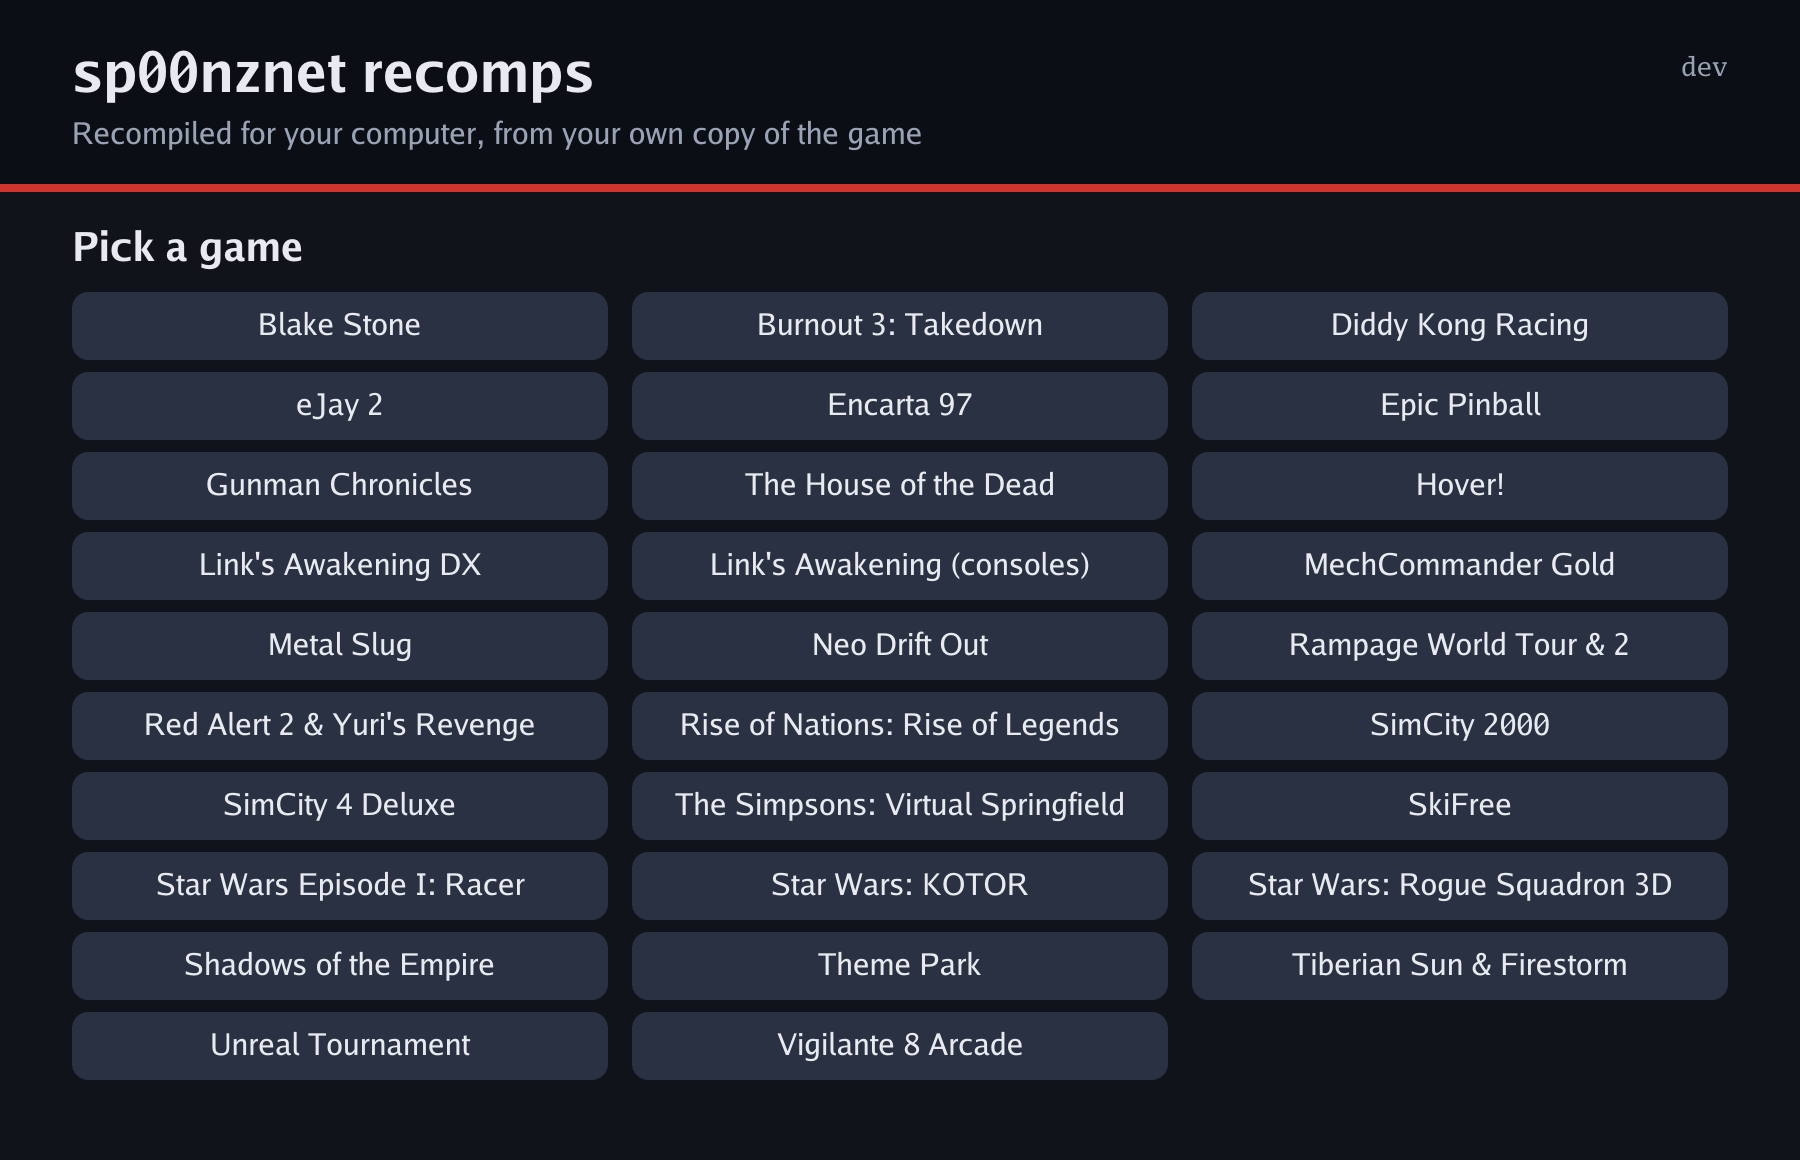
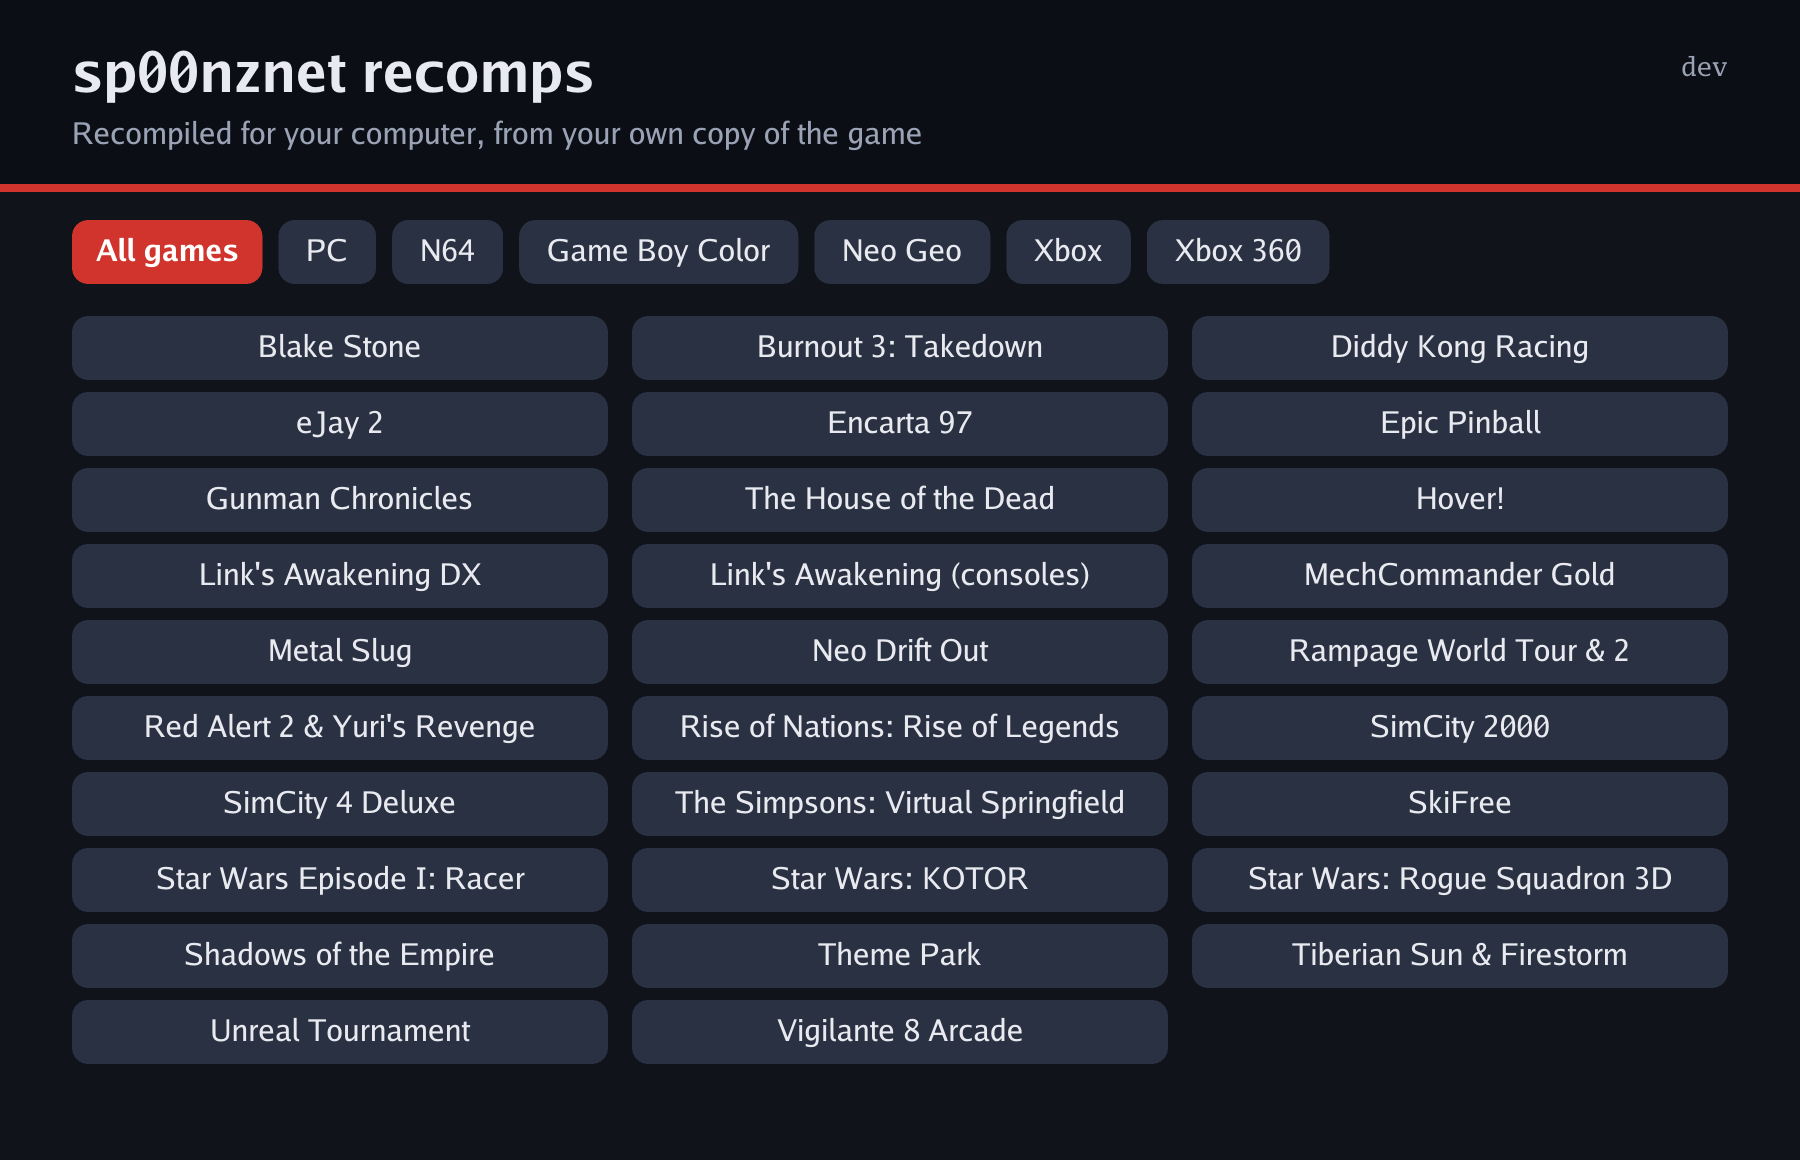
Game list: a tab per platform

Changed region(s): [[0.0311, 0.1862, 0.9644, 0.6517], [0.0311, 0.6828, 0.9644, 0.931]]

diff --git a/all.go b/all.go
@@ -14,6 +14,7 @@ import (
 	"os"
 	"path"
 	"path/filepath"
+	"sort"
 	"time"
 
 	"github.com/hajimehoshi/ebiten/v2"
@@ -26,8 +27,22 @@ var all = "false"
 
 // entry is one game in catalog.json: a repo whose releases carry launcher/launcher.json.
 type entry struct {
-	Repo  string `json:"repo"`
-	Title string `json:"title"`
+	Repo     string `json:"repo"`
+	Title    string `json:"title"`
+	Platform string `json:"platform"` // what it was made for: PC, N64, Xbox 360...
+}
+
+// platforms: the catalog's platforms, most games first, for the filter tabs.
+func platforms(games []entry) []string {
+	n := map[string]int{}
+	var ps []string
+	for _, e := range games {
+		if n[e.Platform]++; n[e.Platform] == 1 {
+			ps = append(ps, e.Platform)
+		}
+	}
+	sort.SliceStable(ps, func(i, j int) bool { return n[ps[i]] > n[ps[j]] })
+	return ps
 }
 
 func loadCatalog() ([]entry, error) {
@@ -98,12 +113,26 @@ func (a *App) toPicker() {
 	}
 }
 
-// drawPick: every game, three to a row; a dot on the ones already built.
+// drawPick: a tab per platform, then its games three to a row; a dot on the ones already built.
 func (a *App) drawPick(dst *ebiten.Image) {
-	a.text(dst, "Pick a game", 36, 112, 20, bold, ink)
-	const cols, w, h, gap = 3, 268.0, 34.0, 12.0
+	x := 36.0
+	for _, p := range append([]string{""}, platforms(a.games)...) {
+		l := p
+		if l == "" {
+			l = "All games"
+		}
+		w := a.width(l, 15, regular) + 28
+		a.button(dst, x, 110, w, 32, l, a.plat == p, true, func() { a.plat = p })
+		x += w + 8
+	}
+	const cols, w, h, gap = 3, 268.0, 32.0, 12.0
+	n := 0
 	for i, e := range a.games {
-		x, y := 36+float64(i%cols)*(w+gap), 146+float64(i/cols)*(h+6)
+		if a.plat != "" && e.Platform != a.plat {
+			continue
+		}
+		x, y := 36+float64(n%cols)*(w+gap), 158+float64(n/cols)*(h+6)
+		n++
 		a.button(dst, x, y, w, h, a.fit(e.Title, 15, regular, w-40), false, true, func() { a.pick(e) })
 		if a.isBuilt[i] {
 			a.dot(dst, x+14, y+h/2, good)

diff --git a/main_test.go b/main_test.go
@@ -127,3 +127,19 @@ func TestPickedKeepsManifestOrderAndDropsUnknown(t *testing.T) {
 		t.Fatalf("picked = %v, want [psp dreamcast]", got)
 	}
 }
+
+func TestPlatformsMostGamesFirst(t *testing.T) {
+	g := []entry{{Platform: "N64"}, {Platform: "PC"}, {Platform: "PC"}, {Platform: "Xbox"}}
+	if p := platforms(g); len(p) != 3 || p[0] != "PC" || p[1] != "N64" || p[2] != "Xbox" {
+		t.Fatal(p)
+	}
+	c, err := loadCatalog()
+	if err != nil {
+		t.Fatal(err)
+	}
+	for _, e := range c {
+		if e.Platform == "" {
+			t.Fatal(e.Repo, "has no platform")
+		}
+	}
+}

diff --git a/main.go b/main.go
@@ -131,6 +131,7 @@ type App struct {
 
 	games   []entry // the all-games launcher's list; nil in a game's own installer
 	isBuilt []bool
+	plat    string // the platform tab picked; "" is every game
 }
 
 func main() {

diff --git a/README.md b/README.md
@@ -85,7 +85,7 @@ a console...), then Build. Nothing is downloaded until a game is picked, and
 only the toolchains for the outputs ticked. A `v*` tag here puts it on the
 release ([all-games.yml](.github/workflows/all-games.yml)).
 
-A game joins the list with a line in `catalog.json` once it has a release
+A game joins the list (and its platform's tab) with a line in `catalog.json`, `{repo, title, platform}`, once it has a release
 carrying `launcher/launcher.json`. A game with more than one output lists
 them as `choices` so the player picks.
 

diff --git a/CHANGELOG.md b/CHANGELOG.md
@@ -4,6 +4,12 @@ Versions follow [SemVer](https://semver.org/).
 
 ## [Unreleased]
 
+## [0.6.0] - 2026-10-30
+
+### Added
+- The game list has a tab per platform (PC, N64, Xbox 360...); each game in
+  `catalog.json` has a `platform`.
+
 ## [0.5.0] - 2026-10-30
 
 ### Added
